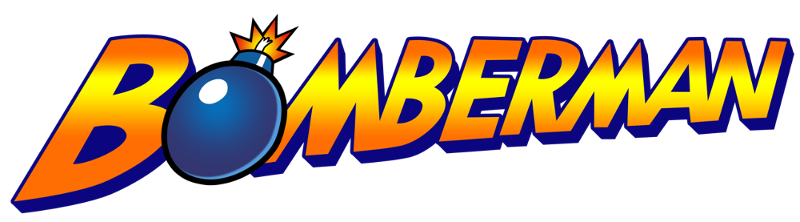
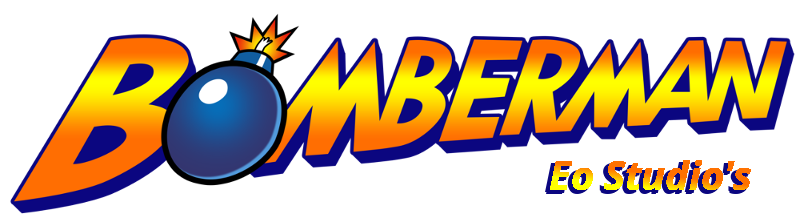
push the credits image, and some edit on the main title image.
Former-commit-id: 83ae4057c07346e1c2e7045e4fcad676fb218fe5

Changed region(s): [[0.6562, 0.7027, 0.9375, 0.8919]]

diff --git a/src/classes/menu/GameMenu.cpp b/src/classes/menu/GameMenu.cpp
@@ -46,7 +46,7 @@ bool Eo::GameMenu::draw()
 	if (font)
 		skin->setFont(font);
 	this->putBackgroundImage();
-	// this->putSaveButton();
+	this->putSettingsMenu();
 	this->putResumeButton();
 	this->putQuitButton();
 	skin->setFont(env->getBuiltInFont(), irr::gui::EGDF_TOOLTIP);
@@ -95,7 +95,7 @@ void Eo::GameMenu::putQuitButton()
 		L"Return to main menu");
 }
 
-void Eo::GameMenu::putSaveButton()
+void Eo::GameMenu::putSettingsMenu()
 {
 	auto *env = _device->getDevice()->getGUIEnvironment();
 	auto windowSize = _device->getOptions()->getWindowSize();
@@ -108,8 +108,8 @@ void Eo::GameMenu::putSaveButton()
 			(int)(w / 6 + 2 * w / 3),
 			(int)((h / 8) * pos + h / 8)},
 		nullptr,
-		Eo::GameMenu::ButtonType::Quit, L"Save",
-		L"Save the game");
+		Eo::GameMenu::ButtonType::Settings, L"Settings",
+		L"Open the Settings");
 }
 
 void Eo::GameMenu::addEvents(Eo::Rc<Eo::Event> event)
@@ -118,6 +118,8 @@ void Eo::GameMenu::addEvents(Eo::Rc<Eo::Event> event)
 		Eo::Event::eventKey(Eo::eventType::EGET_BUTTON_CLICKED,
 			Eo::GameMenu::ButtonType::Quit),
 		[this](bool &toRemove, const Eo::event &event) {
+			_sound->stopMusic();
+			_sound->play(Eo::SoundDevice::MENUBGM, true);
 			this->_sceneHandler->unloadCurrentScene();
 			this->_sceneHandler->unloadCurrentScene();
 			this->_sceneHandler->unloadCurrentScene();

diff --git a/src/classes/menu/CreditsMenu.cpp b/src/classes/menu/CreditsMenu.cpp
@@ -30,6 +30,7 @@ bool Eo::CreditsMenu::draw()
 	if (font)
 		skin->setFont(font);
 	this->putBackgroundImage();
+	this->putCredits();
 	this->putReturnButton();
 	skin->setFont(env->getBuiltInFont(), irr::gui::EGDF_TOOLTIP);
 	return true;
@@ -59,4 +60,15 @@ void Eo::CreditsMenu::putReturnButton()
 
 void Eo::CreditsMenu::addEvents(Eo::Rc<Eo::Event> event)
 {
+}
+
+void Eo::CreditsMenu::putCredits()
+{
+	auto *env = this->_device->getDevice()->getGUIEnvironment();
+	auto windowSize = this->_device->getOptions()->getWindowSize();
+	auto w = windowSize.Width;
+	auto h = windowSize.Height;
+	env->addImage(this->_device->getDriver()->getTexture(
+		"../assets/img/credits.png"),
+		{w / 2 - 512, h / 2 - 512});
 }

diff --git a/src/classes/menu/GameMenu.hpp b/src/classes/menu/GameMenu.hpp
@@ -15,13 +15,13 @@ namespace Eo {
 		GameMenu(Eo::Rc<Eo::Event> event, Eo::Rc<Eo::Device> device, Eo::Rc<Eo::SceneHandler> sceneHandler, Eo::Rc<Eo::SoundDevice> sound);
 		~GameMenu() override;
 		bool draw() override;
-		enum ButtonType { Resume = 167, Settings, Quit };
+		enum ButtonType { Resume = 167, Settings, Quit, Save };
 
 	private:
 		void putBackgroundImage();
 		void putResumeButton();
 		void putQuitButton();
-		void putSaveButton();
+		void putSettingsMenu();
 		void addEvents(Eo::Rc<Eo::Event> event);
 	};
 }

diff --git a/src/classes/menu/CreditsMenu.hpp b/src/classes/menu/CreditsMenu.hpp
@@ -24,6 +24,7 @@ namespace Eo {
 		void putBackgroundImage();
 		void putReturnButton();
 		void addEvents(Eo::Rc<Eo::Event> event);
+		void putCredits();
 	};
 }
 
